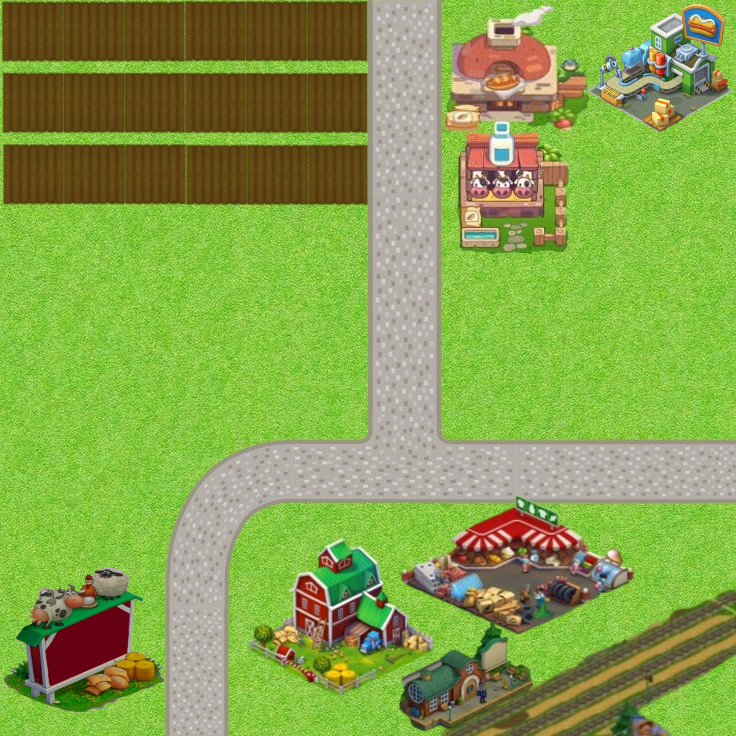
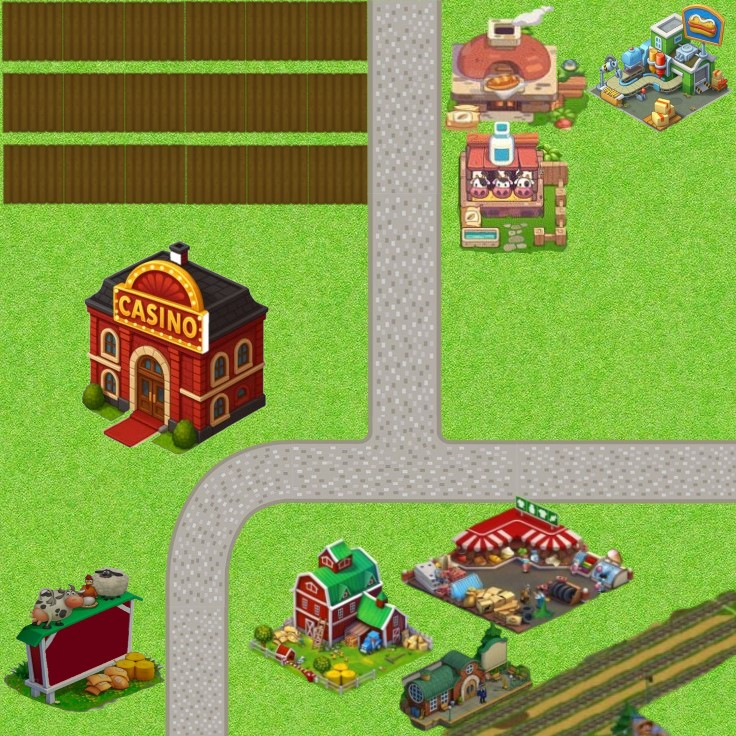
casino slot machine game

Changed region(s): [[0.0938, 0.3125, 0.375, 0.625], [0.9062, 0.0, 1.0, 0.0625], [0.8125, 0.0625, 0.8438, 0.125]]

diff --git a/main.c b/main.c
@@ -1,6 +1,8 @@
 #include <SDL2/SDL.h>
 #include <SDL2/SDL_image.h>
 #include <SDL2/SDL_ttf.h>
+#include <SDL2/SDL_mixer.h>
+
 #include <stdbool.h>
 #include <stdio.h>
 //bibliotexa proproe
@@ -32,6 +34,158 @@ bool shop_open = true;
 char townName[32] = ""; // Buffer for town name
 bool inputActive = true; // Start with input active
 SDL_Rect inputBox = {60, 628, 60, 30}; // Position and size of input box
+
+const char* symbols[] = {"7", "CHERRY", "BAR"};
+const int num_symbols = 3;
+
+
+SDL_Texture* symbol_textures[3] = {NULL, NULL, NULL};
+
+
+//slot machine
+int bet = 1;
+int reels[3] = {0, 0, 0};
+
+void spin_reels() {
+    for (int i = 0; i < 3; i++) {
+        reels[i] = rand() % num_symbols;
+    }
+}
+
+int evaluate_win() {
+    if (reels[0] == reels[1] && reels[1] == reels[2] && reels[0] == reels[2]) {
+        return bet * 10;  // jackpot
+    }
+    return 0; // no win
+}
+
+void draw_text(SDL_Renderer* renderer, TTF_Font* font, const char* text, int x, int y) {
+    SDL_Color color = {255, 255, 255};
+    SDL_Surface* surface = TTF_RenderText_Blended(font, text, color);
+    SDL_Texture* texture = SDL_CreateTextureFromSurface(renderer, surface);
+    SDL_Rect dest = {x, y, surface->w, surface->h};
+    SDL_RenderCopy(renderer, texture, NULL, &dest);
+    SDL_FreeSurface(surface);
+    SDL_DestroyTexture(texture);
+}
+
+void render_slot_machine(SDL_Renderer* renderer, TTF_Font* font, bool* show_modal) {
+    static bool textures_loaded = false;
+    if (!textures_loaded) {
+        symbol_textures[0] = IMG_LoadTexture(renderer, "assets/7_slot.png");
+        symbol_textures[1] = IMG_LoadTexture(renderer, "assets/cherry.png");
+        symbol_textures[2] = IMG_LoadTexture(renderer, "assets/bar.png");
+        textures_loaded = true;
+    }
+
+    SDL_SetRenderDrawBlendMode(renderer, SDL_BLENDMODE_BLEND);
+    SDL_SetRenderDrawColor(renderer, 0, 0, 0, 180);
+    SDL_RenderFillRect(renderer, NULL);
+
+    SDL_Rect modal = {WINDOW_W / 2 - 250, WINDOW_H / 2 - 200, 500, 400};
+    SDL_SetRenderDrawColor(renderer, 50, 50, 60, 255);
+    SDL_RenderFillRect(renderer, &modal);
+
+    SDL_Rect title_bar = {modal.x, modal.y, modal.w, 40};
+    SDL_SetRenderDrawColor(renderer, 70, 70, 80, 255);
+    SDL_RenderFillRect(renderer, &title_bar);
+
+    SDL_Color white = {255, 255, 255, 255};
+    SDL_Surface* title_surface = TTF_RenderText_Blended(font, "Casino Slot Machine", white);
+    SDL_Texture* title_texture = SDL_CreateTextureFromSurface(renderer, title_surface);
+    SDL_Rect title_rect = {
+        modal.x + 15,
+        modal.y + (title_bar.h - title_surface->h)/2,
+        title_surface->w,
+        title_surface->h
+    };
+    SDL_RenderCopy(renderer, title_texture, NULL, &title_rect);
+    SDL_FreeSurface(title_surface);
+    SDL_DestroyTexture(title_texture);
+
+    SDL_Rect close_btn = {modal.x + modal.w - 35, modal.y + 10, 20, 20};
+    int mx, my;
+    Uint32 mouseState = SDL_GetMouseState(&mx, &my);
+    bool hovered = SDL_PointInRect(&(SDL_Point){mx, my}, &close_btn);
+
+    SDL_SetRenderDrawColor(renderer, hovered ? 220 : 255, hovered ? 80 : 100, 100, 255);
+    SDL_RenderFillRect(renderer, &close_btn);
+
+    SDL_SetRenderDrawColor(renderer, 180, 60, 60, 255);
+    SDL_RenderDrawRect(renderer, &close_btn);
+
+    SDL_SetRenderDrawColor(renderer, 255, 255, 255, 255);
+    SDL_RenderDrawLine(renderer,
+                      close_btn.x + 5, close_btn.y + 5,
+                      close_btn.x + close_btn.w - 5, close_btn.y + close_btn.h - 5);
+    SDL_RenderDrawLine(renderer,
+                      close_btn.x + close_btn.w - 5, close_btn.y + 5,
+                      close_btn.x + 5, close_btn.y + close_btn.h - 5);
+
+    if (hovered && mouseState & SDL_BUTTON(SDL_BUTTON_LEFT)) {
+        *show_modal = false;
+        return;
+    }
+
+    SDL_Rect content_area = {modal.x, modal.y + title_bar.h, modal.w, modal.h - title_bar.h};
+    SDL_SetRenderDrawColor(renderer, 60, 60, 70, 255);
+    SDL_RenderFillRect(renderer, &content_area);
+
+    SDL_Rect spin_btn = {modal.x + modal.w/2 - 60, modal.y + modal.h - 50, 120, 30};
+    bool spin_hovered = SDL_PointInRect(&(SDL_Point){mx, my}, &spin_btn);
+
+    SDL_SetRenderDrawColor(renderer, spin_hovered ? 180 : 130, 200, 80, 255);
+    SDL_RenderFillRect(renderer, &spin_btn);
+    SDL_RenderDrawRect(renderer, &spin_btn);
+    draw_text(renderer, font, "SPIN", spin_btn.x + 35, spin_btn.y + 5);
+
+    if (spin_hovered && (mouseState & SDL_BUTTON(SDL_BUTTON_LEFT))) {
+        if (playerMoney >= bet) {
+            playerMoney -= bet;
+            //Mix_PlayChannel(-1, spin_sound, 0);
+            spin_reels();
+            int win = evaluate_win();
+            playerMoney += win;
+        }
+    }
+
+    //Mix_FreeChunk(spin_sound);
+    //Mix_CloseAudio();
+    
+
+    char credit_text[64];
+    snprintf(credit_text, sizeof(credit_text), "CREDIT: %d", playerMoney);
+    draw_text(renderer, font, credit_text, modal.x + 20, modal.y + 60);
+
+    char bet_text[64];
+    snprintf(bet_text, sizeof(bet_text), "BET: %d", bet);
+    draw_text(renderer, font, bet_text, modal.x + 20, modal.y + 100);
+
+    for (int i = 0; i < 3; i++) {
+        SDL_Rect dst = {modal.x + 60 + i * 120, modal.y + 180, 64, 64};
+        SDL_RenderCopy(renderer, symbol_textures[reels[i]], NULL, &dst);
+    }
+
+    SDL_Rect bet_buttons[5];
+    int bet_values[5] = {1, 5, 25, 50, 100};
+    for (int i = 0; i < 5; i++) {
+        bet_buttons[i] = (SDL_Rect){modal.x + 20 + i * 90, modal.y + 130, 80, 30};
+        bool hover = SDL_PointInRect(&(SDL_Point){mx, my}, &bet_buttons[i]);
+        SDL_SetRenderDrawColor(renderer, hover || bet == bet_values[i] ? 200 : 100, 100, 200, 255);
+        SDL_RenderFillRect(renderer, &bet_buttons[i]);
+        SDL_RenderDrawRect(renderer, &bet_buttons[i]);
+
+        char label[16];
+        snprintf(label, sizeof(label), "$%d", bet_values[i]);
+        draw_text(renderer, font, label, bet_buttons[i].x + 20, bet_buttons[i].y + 5);
+
+        if (hover && (mouseState & SDL_BUTTON(SDL_BUTTON_LEFT))) {
+            bet = bet_values[i];
+        }  
+        
+    }
+}
+
 
 
 int drawButton(SDL_Renderer *renderer, SDL_Texture *button_texture, SDL_Texture *button_texture_2,SDL_Rect button, int mouseX, int mouseY, Uint32 mouseState) {
@@ -967,6 +1121,7 @@ int main() {
     SDL_Rect buttonRect3 = {280, 560, 170, 108};
     SDL_Rect buttonRect4 = {2, 70, 365, 60};
     SDL_Rect buttonRect5= {430, 480, 170, 108};
+    SDL_Rect buttonRect6={130, 250, 170, 108};
     //SDL_Color normal = { 255, 255, 255, 0 };    // Abuton transparent
     //SDL_Color hover = { 255, 99, 71, 0 };    // semi-transparent
     
@@ -989,6 +1144,14 @@ int main() {
         SDL_Quit();
         return 1;
     }
+    Mix_OpenAudio(44100, MIX_DEFAULT_FORMAT, 2, 2048);
+Mix_Chunk* spin_sound = Mix_LoadWAV("assets/spin.mp3");
+if (!spin_sound) {
+    printf("Failed to load spin sound: %s\n", Mix_GetError());
+}
+
+
+
 
     // Creare fereastră
     SDL_Window *window = SDL_CreateWindow("Joc Hay Day",
@@ -1045,6 +1208,7 @@ int main() {
         bool show_modal_barn = false;
         bool show_modal_tomato=false;
         bool show_modal_shop=false;
+        bool show_modal_pacane=false;
         int running = 1;
         SDL_Event event;
         while (running) {
@@ -1064,7 +1228,24 @@ int main() {
         if (inputActive) {
         drawTextInputBox(renderer, title_font);
         }
-        
+        //buton pacane
+        if(!show_modal_pacane)
+        {
+            if (handleButtonWithCondition(renderer, NULL, buttonTextureBarn, buttonTextureBarn, buttonRect6, mouseX, mouseY, mouseState, barn_open))
+                {
+                    show_modal_pacane=true;
+                    printf("Butonul a fost apăsat și condiția e!\n");
+          
+                }
+        }
+        if (show_modal_pacane) {
+           
+                render_slot_machine(renderer, title_font, &show_modal_pacane);
+            
+              }
+
+
+
         //buton BARN
         if(!show_modal_barn)
         {
